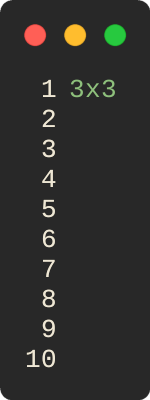
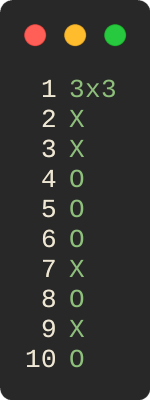
Replace emoji symbols with ASCII characters for better compatibility
- Replace 🦄 with X and 🌈 with O in all board examples
- Update perfect.txt board file to use X/O symbols
- Update test cases to use ASCII symbols instead of emojis
- Regenerate screenshots with new symbols for proper rendering
- Fixes font rendering issues in Silicon-generated screenshots

diff --git a/packages/lab3/test/board_test.go b/packages/lab3/test/board_test.go
@@ -15,7 +15,7 @@ import (
 // Test board parsing from file
 func TestParseFromFile(t *testing.T) {
 	t.Run("Valid 2x2 board", func(t *testing.T) {
-		content := "2x2\n🦄\n🌈\n🦄\n🌈\n"
+		content := "2x2\nX\nO\nX\nO\n"
 		tmpFile, err := createTempFile(content)
 		if err != nil {
 			t.Fatalf("Failed to create temp file: %v", err)
